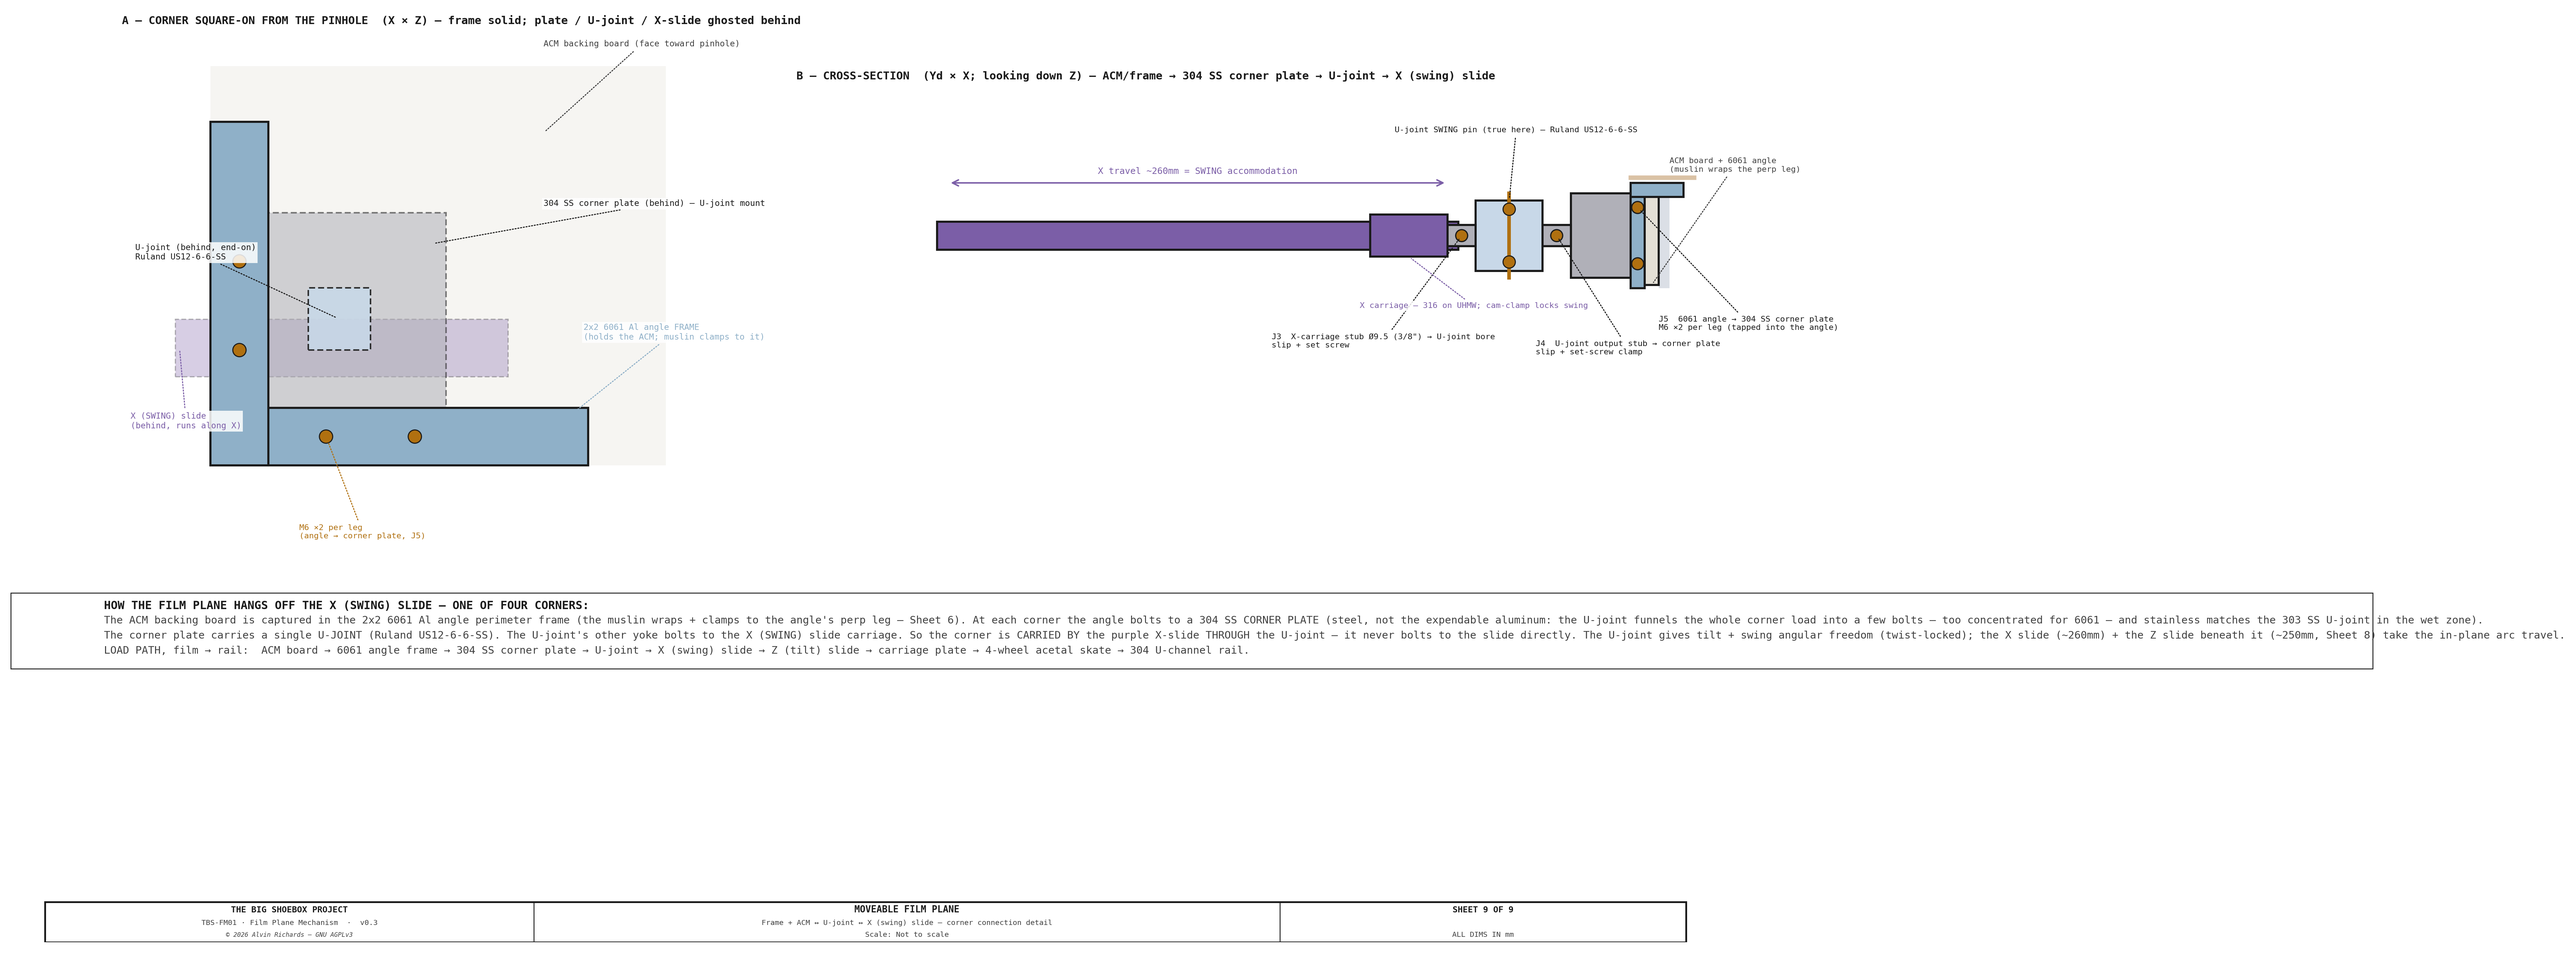
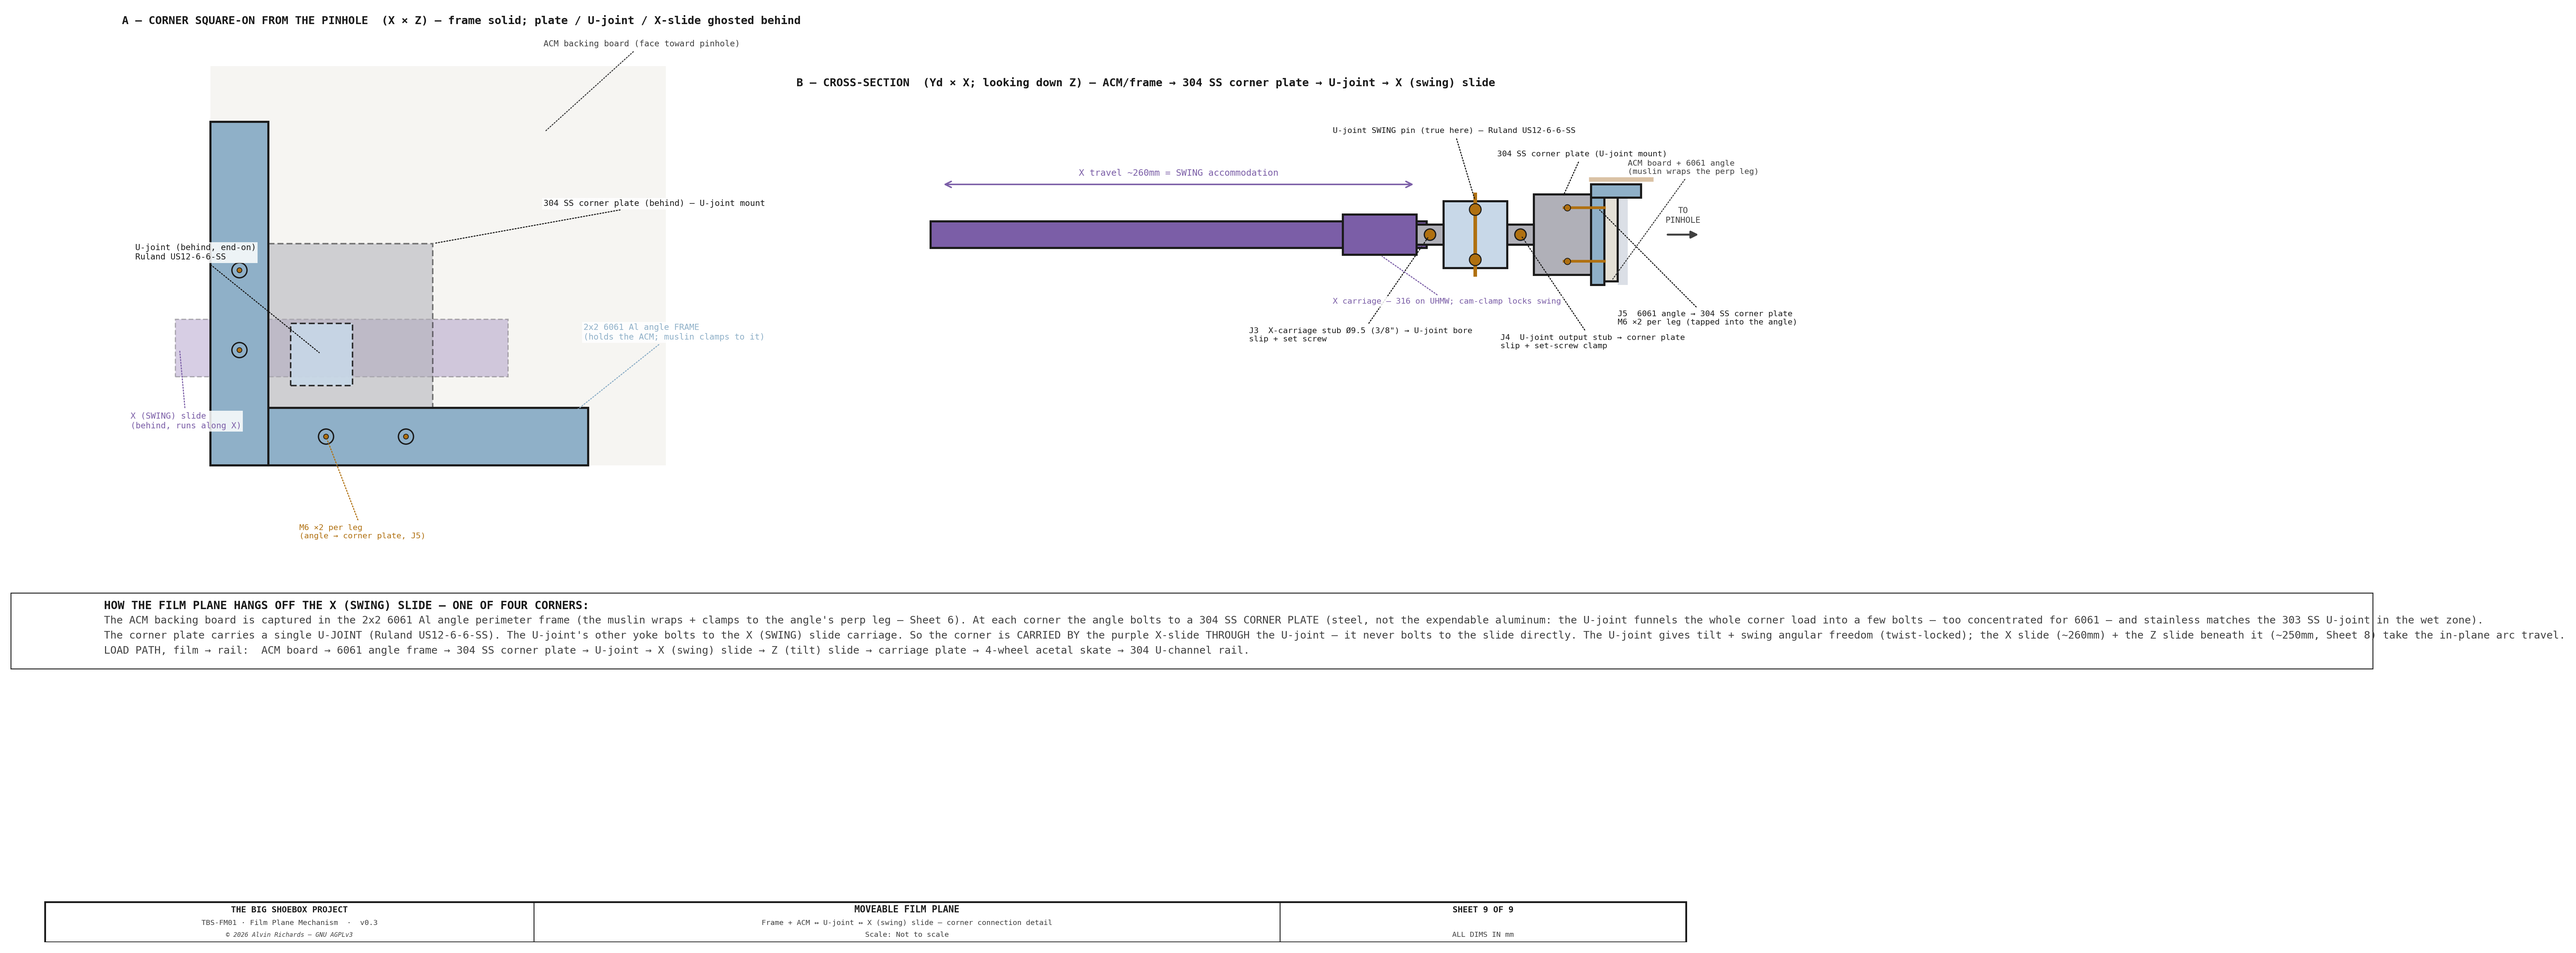
film-plane Sheet 9: fix bolts + add pinhole direction + corner-plate leader
Alvin review:
- View A: reposition the 304 SS corner plate behind the L-corner so the J5 M6
  bolts actually land in it; draw them as end-on head-rings (they run along Yd
  into the plate behind)
- View B: J5 angle->plate bolts run along Yd, so drawn as HORIZONTAL shanks (not
  end-on dots); add a '-> TO PINHOLE' direction arrow; add a 304 SS corner-plate
  leader

diff --git a/src/generators/generate_film_plane_mechanism.py b/src/generators/generate_film_plane_mechanism.py
@@ -1953,16 +1953,18 @@ def _corner_elevation(ax):
     # ── BEHIND the plane (ghosted, dashed) ──
     ax.add_patch(plt.Rectangle((-16, 40), 150, 26, fc=C_SWING, ec=OUT, lw=0.8, ls=(0, (4, 2)),
                                alpha=0.30, zorder=3))                                   # X (swing) slide, runs along X
-    ax.add_patch(plt.Rectangle((10, 18), 96, 96, fc=C_STEEL, ec=OUT, lw=1.0, ls=(0, (4, 2)),
-                               alpha=0.55, zorder=4))                                   # 304 SS corner plate
-    ax.add_patch(plt.Rectangle((44, 52), 28, 28, fc=C_UJ, ec=OUT, lw=1.0, ls=(0, (4, 2)),
-                               alpha=0.9, zorder=5))                                    # U-joint (end-on)
+    ax.add_patch(plt.Rectangle((0, 0), 100, 100, fc=C_STEEL, ec=OUT, lw=1.0, ls=(0, (4, 2)),
+                               alpha=0.55, zorder=4))                                   # 304 SS corner plate (behind the L-corner)
+    ax.add_patch(plt.Rectangle((36, 36), 28, 28, fc=C_UJ, ec=OUT, lw=1.0, ls=(0, (4, 2)),
+                               alpha=0.9, zorder=5))                                    # U-joint (end-on, centred on the plate)
     # ── the 2x2 6061 angle FRAME corner (solid, in front) ──
     ax.add_patch(plt.Rectangle((0, 0), 170, 26, fc=C_FRAME, ec=OUT, lw=1.4, zorder=7))  # horizontal leg
     ax.add_patch(plt.Rectangle((0, 0), 26, 155, fc=C_FRAME, ec=OUT, lw=1.4, zorder=7))  # vertical leg
-    # M6 bolts, angle → 304 SS corner plate (J5 — 2 per leg)
-    for (bx, bz) in [(52, 13), (92, 13), (13, 52), (13, 92)]:
-        draw_circle(ax, bx, bz, 3, color=OUT, fill=True, fc=C_PIN, lw=0.7, zorder=9)
+    # M6 bolts, angle → 304 SS corner plate (J5 — 2 per leg; end-on here, they run
+    # along Yd into the plate BEHIND, so each is a head-ring + centre = seen down its axis)
+    for (bx, bz) in [(52, 13), (88, 13), (13, 52), (13, 88)]:
+        draw_circle(ax, bx, bz, 3.4, color=OUT, fill=False, lw=0.9, zorder=9)
+        draw_circle(ax, bx, bz, 1.1, color=OUT, fill=True, fc=C_PIN, lw=0.5, zorder=10)
     # labels
     leader(ax, 150, 13, 168, 60, "2x2 6061 Al angle FRAME\n(holds the ACM; muslin clamps to it)",
            ha="left", fs=5.6, color=C_FRAME, font=FONT, bbox=LBL_BG)
@@ -1970,7 +1972,7 @@ def _corner_elevation(ax):
            ha="left", fs=5.6, color=DIM, font=FONT, bbox=LBL_BG)
     leader(ax, 100, 100, 150, 118, "304 SS corner plate (behind) — U-joint mount",
            ha="left", fs=5.6, color=OUT, font=FONT, bbox=LBL_BG)
-    leader(ax, 58, 66, -34, 96, "U-joint (behind, end-on)\nRuland US12-6-6-SS",
+    leader(ax, 50, 50, -34, 96, "U-joint (behind, end-on)\nRuland US12-6-6-SS",
            ha="left", fs=5.6, color=OUT, font=FONT, bbox=LBL_BG)
     leader(ax, -14, 53, -36, 20, "X (SWING) slide\n(behind, runs along X)",
            ha="left", fs=5.6, color=C_SWING, font=FONT, bbox=LBL_BG)
@@ -1984,7 +1986,7 @@ def _corner_section(ax):
     """VIEW B — CROSS-SECTION (Yd × X, looking down Z) through the stack: ACM + 6061 angle → 304 SS
     corner plate → U-joint (swing pin true) → X (swing) slide + its carriage. Film/pinhole to the RIGHT,
     the moving mechanism to the LEFT (toward the skate/rail)."""
-    ax.set_xlim(-20, 500); ax.set_ylim(-72, 96); ax.set_aspect("equal"); ax.axis("off")
+    ax.set_xlim(-20, 526); ax.set_ylim(-72, 96); ax.set_aspect("equal"); ax.axis("off")
     cyy = 0
     # ── film side (RIGHT): ACM backing + 6061 angle (in-plane leg on the ACM, perp leg toward pinhole) ──
     ax.add_patch(plt.Rectangle((470, cyy - 30), 6, 60, fc=C_PANEL, ec="none", alpha=0.16, zorder=2))  # panel ghost
@@ -2006,14 +2008,23 @@ def _corner_section(ax):
     _rect(ax, 306, cyy - 12, 44, 24, C_SWING, z=6)                     # X carriage (near the swung end)
     ax.annotate("", xy=(66, cyy + 30), xytext=(350, cyy + 30), arrowprops=dict(arrowstyle="<->", color=C_SWING, lw=1.0))
     ax.text(208, cyy + 34, "X travel ~260mm = SWING accommodation", fontsize=6, color=C_SWING, ha="center", va="bottom", **FONT)
-    # joint markers
-    _joint(ax, 358, cyy); _joint(ax, 412, cyy); _joint(ax, 458, cyy - 16); _joint(ax, 458, cyy + 16)
+    # J3/J4 set screws (radial, seen end-on down Z) = dots; J5 angle→plate bolts run
+    # along Yd → drawn as HORIZONTAL shanks (head-ring at the plate end)
+    _joint(ax, 358, cyy); _joint(ax, 412, cyy)
+    for bz in (cyy - 16, cyy + 16):
+        ax.plot([438, 462], [bz, bz], color=C_PIN, lw=1.8, zorder=9)
+        draw_circle(ax, 440, bz, 1.9, color=OUT, fill=True, fc=C_PIN, lw=0.5, zorder=10)
+    # → TO PINHOLE (the muslin/ACM face the pinhole, to the right)
+    ax.annotate("", xy=(520, cyy), xytext=(498, cyy), arrowprops=dict(arrowstyle="-|>", color=DIM, lw=1.3))
+    ax.text(509, cyy + 6, "TO\nPINHOLE", ha="center", va="bottom", fontsize=5.6, color=DIM, **FONT)
     # J-labels (right → left is film → mechanism)
     leader(ax, 458, cyy + 16, 470, -50, "J5  6061 angle → 304 SS corner plate\nM6 ×2 per leg (tapped into the angle)",
            ha="left", fs=5.4, color=OUT, font=FONT, bbox=LBL_BG)
     leader(ax, 412, cyy, 400, -64, "J4  U-joint output stub → corner plate\nslip + set-screw clamp",
            ha="left", fs=5.4, color=OUT, font=FONT, bbox=LBL_BG)
-    leader(ax, 385, cyy + 20, 320, 60, "U-joint SWING pin (true here) — Ruland US12-6-6-SS",
+    leader(ax, 385, cyy + 20, 300, 62, "U-joint SWING pin (true here) — Ruland US12-6-6-SS",
+           ha="left", fs=5.4, color=OUT, font=FONT, bbox=LBL_BG)
+    leader(ax, 437, cyy + 22, 398, 48, "304 SS corner plate (U-joint mount)",
            ha="left", fs=5.4, color=OUT, font=FONT, bbox=LBL_BG)
     leader(ax, 358, cyy, 250, -60, "J3  X-carriage stub Ø9.5 (3/8\") → U-joint bore\nslip + set screw",
            ha="left", fs=5.4, color=OUT, font=FONT, bbox=LBL_BG)
